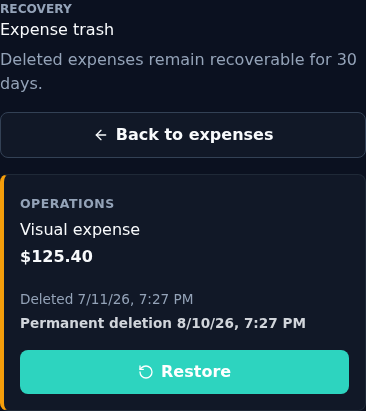
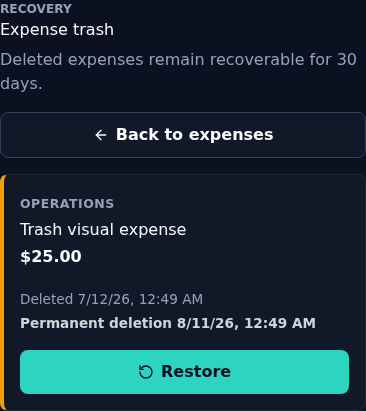
test(a11y): enforce WCAG scans in visual matrix

diff --git a/tests/quality/visual.visual.ts b/tests/quality/visual.visual.ts
@@ -1,4 +1,5 @@
 import { expect, type Locator, type Page, test } from '@playwright/test';
+import AxeBuilder from '@axe-core/playwright';
 import { registerAndCreateWorkspace } from '../playwright/fixtures';
 
 async function registerAndSeed(page: Page) {
@@ -61,7 +62,21 @@ async function stabilize(page: Page) {
 
 async function capture(page: Page, locator: Locator, name: string) {
 	await stabilize(page);
+	await expectA11y(page, name);
 	await expect(locator).toHaveScreenshot(name);
+}
+
+async function expectA11y(page: Page, surface: string) {
+	const results = await new AxeBuilder({ page })
+		.withTags(['wcag2a', 'wcag2aa', 'wcag21a', 'wcag21aa', 'wcag22aa'])
+		.analyze();
+	const violations = results.violations.map(({ id, impact, help, nodes }) => ({
+		id,
+		impact,
+		help,
+		nodes: nodes.map(({ html, target, failureSummary }) => ({ html, target, failureSummary }))
+	}));
+	expect(violations, `${surface} has WCAG A/AA violations`).toEqual([]);
 }
 
 test('captures stable desktop and mobile app surfaces', async ({ page }) => {
@@ -148,9 +163,17 @@ test('captures stable desktop and mobile app surfaces', async ({ page }) => {
 	await capture(page, notificationCenter, 'budget-notifications-mobile.png');
 
 	await page.setViewportSize({ width: 1280, height: 900 });
-	await page.goto('/app/expenses?q=Visual%20expense');
-	await expenseRow(page, 'Visual expense')
-		.getByRole('button', { name: 'Delete Visual expense' })
+	await page.goto('/app/expenses');
+	const trashExpenseForm = page.locator('form.expense-create-form');
+	await trashExpenseForm.getByLabel('Description').fill('Trash visual expense');
+	await trashExpenseForm.getByLabel('Installment amount').fill('25.00');
+	await trashExpenseForm.getByLabel('Date', { exact: true }).fill('2026-06-28');
+	await trashExpenseForm.getByLabel('Category').selectOption({ label: '🧰 Operations' });
+	await trashExpenseForm.getByRole('button', { name: 'Add' }).click();
+	await expect(expenseRow(page, 'Trash visual expense')).toBeVisible();
+	await page.goto('/app/expenses?q=Trash%20visual%20expense');
+	await expenseRow(page, 'Trash visual expense')
+		.getByRole('button', { name: 'Delete Trash visual expense' })
 		.click();
 	await page
 		.getByRole('dialog', { name: 'Delete expense?' })
@@ -163,4 +186,16 @@ test('captures stable desktop and mobile app surfaces', async ({ page }) => {
 	await page.setViewportSize({ width: 390, height: 844 });
 	await expect(page.locator('html')).toHaveJSProperty('scrollWidth', 390);
 	await capture(page, trashPage, 'expense-trash-mobile.png');
+
+	await page.emulateMedia({ colorScheme: 'light' });
+	await page.setViewportSize({ width: 1280, height: 900 });
+	await page.goto('/app/settings/audit');
+	await expect(page.getByRole('heading', { name: 'Audit' })).toBeVisible();
+	await page.addStyleTag({
+		content: 'main tbody td:first-child { color: transparent !important; }'
+	});
+	await capture(page, page.locator('.app-shell'), 'audit-light-desktop.png');
+	await page.setViewportSize({ width: 390, height: 844 });
+	await expect(page.locator('html')).toHaveJSProperty('scrollWidth', 390);
+	await capture(page, page.locator('.app-shell'), 'audit-light-mobile.png');
 });

diff --git a/src/routes/(protected)/app/expenses/+page.svelte b/src/routes/(protected)/app/expenses/+page.svelte
@@ -536,7 +536,7 @@
 		{:else}
 			<div
 				class={['expense-table', data.permissions.canReview && 'with-select']}
-				role="table"
+				role="treegrid"
 				aria-label={t('Expenses registered')}
 				aria-colcount={data.permissions.canReview ? 8 : 7}
 			>
@@ -582,12 +582,13 @@
 							<summary
 								class="expense-table-row"
 								role="row"
+								aria-level="1"
 								aria-expanded={expandedExpenseIds.has(expense.id)}
 							>
 								{#if data.permissions.canReview && expense.reviewStatus === 'pending'}
 									<span
 										class={['expense-select-label', selectedIds.has(expense.id) && 'selected']}
-										role="cell"
+										role="gridcell"
 										aria-colindex="1"
 										tabindex="-1"
 										onclick={(event) => {
@@ -622,20 +623,20 @@
 										<span class="expense-select-text">{t('Review')}</span>
 									</span>
 								{:else if data.permissions.canReview}
-									<span class="expense-select-placeholder" role="cell" aria-colindex="1">
+									<span class="expense-select-placeholder" role="gridcell" aria-colindex="1">
 										<span class="sr-only">{reviewLabel(expense.reviewStatus, t)}</span>
 									</span>
 								{/if}
 								<span
 									class="expense-table-date"
-									role="cell"
+									role="gridcell"
 									aria-colindex={data.permissions.canReview ? 2 : 1}
 								>
 									<LocalizedDate value={expense.expenseDate} />
 								</span>
 								<span
 									class="expense-table-description"
-									role="cell"
+									role="gridcell"
 									aria-colindex={data.permissions.canReview ? 3 : 2}
 								>
 									<strong>{expense.description}</strong>
@@ -654,7 +655,7 @@
 								</span>
 								<span
 									class="expense-category expense-table-category"
-									role="cell"
+									role="gridcell"
 									aria-colindex={data.permissions.canReview ? 4 : 3}
 									style={`--category-color:${expense.categoryColor}`}
 								>
@@ -663,7 +664,7 @@
 								</span>
 								<span
 									class="expense-table-muted expense-table-payment"
-									role="cell"
+									role="gridcell"
 									aria-colindex={data.permissions.canReview ? 5 : 4}
 								>
 									{expense.paymentMethod || '-'}
@@ -673,7 +674,7 @@
 								</span>
 								<span
 									class="expense-table-muted expense-table-note"
-									role="cell"
+									role="gridcell"
 									aria-colindex={data.permissions.canReview ? 6 : 5}
 								>
 									{expense.vendor || expense.costCenter || expense.notes || '-'}
@@ -685,13 +686,13 @@
 								</span>
 								<span
 									class="expense-table-amount"
-									role="cell"
+									role="gridcell"
 									aria-colindex={data.permissions.canReview ? 7 : 6}
 									>{money(expense.amountCents)}</span
 								>
 								<span
 									class="expense-table-action"
-									role="cell"
+									role="gridcell"
 									aria-colindex={data.permissions.canReview ? 8 : 7}
 								>
 									<ChevronDown size={15} />
@@ -712,10 +713,10 @@
 							</summary>
 
 							{#if hasPreparedExpenseDetails(expense.id)}
-								<div class="expense-details-body" role="row">
+								<div class="expense-details-body" role="row" aria-level="2">
 									<div
 										class="expense-details-cell"
-										role="cell"
+										role="gridcell"
 										aria-colindex="1"
 										aria-colspan={data.permissions.canReview ? 8 : 7}
 									>

diff --git a/playwright.visual.config.ts b/playwright.visual.config.ts
@@ -3,6 +3,9 @@ import { configurePlaywrightDatabase, previewCommand } from './tests/playwright/
 
 const database = configurePlaywrightDatabase('visual');
 
+const port = Number(process.env.PLAYWRIGHT_PORT ?? 4173);
+const baseURL = `http://localhost:${port}`;
+
 export default defineConfig({
 	...database.lifecycle,
 	testDir: './tests/quality',
@@ -16,19 +19,19 @@ export default defineConfig({
 		}
 	},
 	use: {
-		baseURL: 'http://localhost:4173',
+		baseURL,
 		colorScheme: 'dark',
 		locale: 'en-US',
 		timezoneId: 'UTC',
 		viewport: { width: 1280, height: 900 }
 	},
 	webServer: {
-		command: previewCommand(),
+		command: previewCommand(` --port ${port}`),
 		env: {
 			DATABASE_URL: database.databaseUrl!,
 			EMAIL_DELIVERY: 'log',
-			ORIGIN: 'http://localhost:4173'
+			ORIGIN: baseURL
 		},
-		port: 4173
+		port
 	}
 });

diff --git a/src/routes/layout.css b/src/routes/layout.css
@@ -5,7 +5,7 @@
 	--font-sans:
 		Inter, ui-sans-serif, system-ui, -apple-system, BlinkMacSystemFont, 'Segoe UI', sans-serif;
 	--color-ink: #111827;
-	--color-muted: #6b7280;
+	--color-muted: #626f80;
 	--color-line: #d1d5db;
 	--color-surface: #ffffff;
 	--color-canvas: #f4f7fb;
@@ -20,7 +20,7 @@
 	color-scheme: light;
 	--color-ink: #111827;
 	--color-ink-soft: #374151;
-	--color-muted: #6b7280;
+	--color-muted: #626f80;
 	--color-line: #d1d5db;
 	--color-line-soft: #e5e7eb;
 	--color-surface: #ffffff;
@@ -30,6 +30,7 @@
 	--color-primary: #0f766e;
 	--color-primary-strong: #115e59;
 	--color-primary-soft: #eef7f6;
+	--color-on-primary: #ffffff;
 	--color-danger: #b91c1c;
 	--color-danger-button: #dc2626;
 	--color-danger-button-hover: #b91c1c;
@@ -68,6 +69,7 @@
 		--color-primary: #2dd4bf;
 		--color-primary-strong: #5eead4;
 		--color-primary-soft: #0f2f2c;
+		--color-on-primary: #0b1120;
 		--color-danger: #fca5a5;
 		--color-danger-button: #ef4444;
 		--color-danger-button-hover: #f87171;
@@ -99,6 +101,7 @@
 	--color-primary: #2dd4bf;
 	--color-primary-strong: #5eead4;
 	--color-primary-soft: #0f2f2c;
+	--color-on-primary: #0b1120;
 	--color-danger: #fca5a5;
 	--color-danger-button: #ef4444;
 	--color-danger-button-hover: #f87171;
@@ -339,7 +342,7 @@ th {
 
 .button.primary {
 	background: var(--color-primary);
-	color: white;
+	color: var(--color-on-primary);
 }
 
 .button.primary:hover {

diff --git a/src/routes/expenses.e2e.ts b/src/routes/expenses.e2e.ts
@@ -850,7 +850,7 @@ test('exposes keyboard tabs and expense table relationships', async ({ page }) =
 		category: '🧰 Operacional'
 	});
 
-	const table = page.getByRole('table', { name: 'Despesas lançadas' });
+	const table = page.getByRole('treegrid', { name: 'Despesas lançadas' });
 	await expect(table).toBeVisible();
 	for (const heading of [
 		'Revisão',
@@ -867,11 +867,11 @@ test('exposes keyboard tabs and expense table relationships', async ({ page }) =
 
 	const expenseTableRow = table.getByRole('row').filter({ hasText: 'Linha acessível' });
 	await expect(expenseTableRow).toHaveAttribute('aria-expanded', 'false');
-	await expect(expenseTableRow.getByRole('cell')).toHaveCount(8);
+	await expect(expenseTableRow.getByRole('gridcell')).toHaveCount(8);
 	await expenseTableRow.focus();
 	await expenseTableRow.press('Enter');
 	await expect(expenseTableRow).toHaveAttribute('aria-expanded', 'true');
-	await expect(table.locator('.expense-details-cell[role="cell"]')).toBeVisible();
+	await expect(table.locator('.expense-details-cell[role="gridcell"]')).toBeVisible();
 });
 
 test('validates support catalog errors, search and pagination', async ({ page }) => {

diff --git a/docs/development.md b/docs/development.md
@@ -137,7 +137,7 @@ Expense selection and lazily prepared detail state are cleared when the list URL
 
 The support-catalog picker follows the ARIA tab pattern: one tab is in the keyboard tab order, arrow keys wrap between tabs, and Home/End move to the first/last tab. Every tab controls the stable `support-catalog-panel` element.
 
-The expense list is exposed as an ARIA table with explicit column indexes, expandable rows and a full-width details row. Responsive CSS may visually hide the header, but must keep it in the accessibility tree so column relationships remain available to assistive technology.
+The expense list is exposed as an ARIA treegrid with explicit column indexes, level-one expandable rows and a level-two full-width details row. This permits `aria-expanded` on each expense row while preserving valid grid relationships. Responsive CSS may visually hide the header, but must keep it in the accessibility tree so column relationships remain available to assistive technology.
 
 ### Import safety contracts
 
@@ -282,6 +282,13 @@ than guessing their meaning.
 ## Run Quality Gates
 
 The quality gates add screenshot regression, performance budget, infrastructure failure and smoke coverage on top of the functional E2E suite:
+
+Every surface captured by the visual suite is also scanned with `@axe-core/playwright` against
+WCAG 2.0, 2.1 and 2.2 A/AA tags at that capture's viewport. Do not exclude rules or page regions to
+make the gate pass: fix confirmed violations. A rule may be narrowed only for a documented false
+positive that identifies the exact rule, element and standards rationale. The audit desktop/mobile
+baselines intentionally run in the light theme; dynamic timestamps are visually hidden only for
+screenshot stability and remain present in the accessibility scan and functional tests.
 
 ```bash
 podman compose -f .devcontainer/compose.yml exec app pnpm test:visual